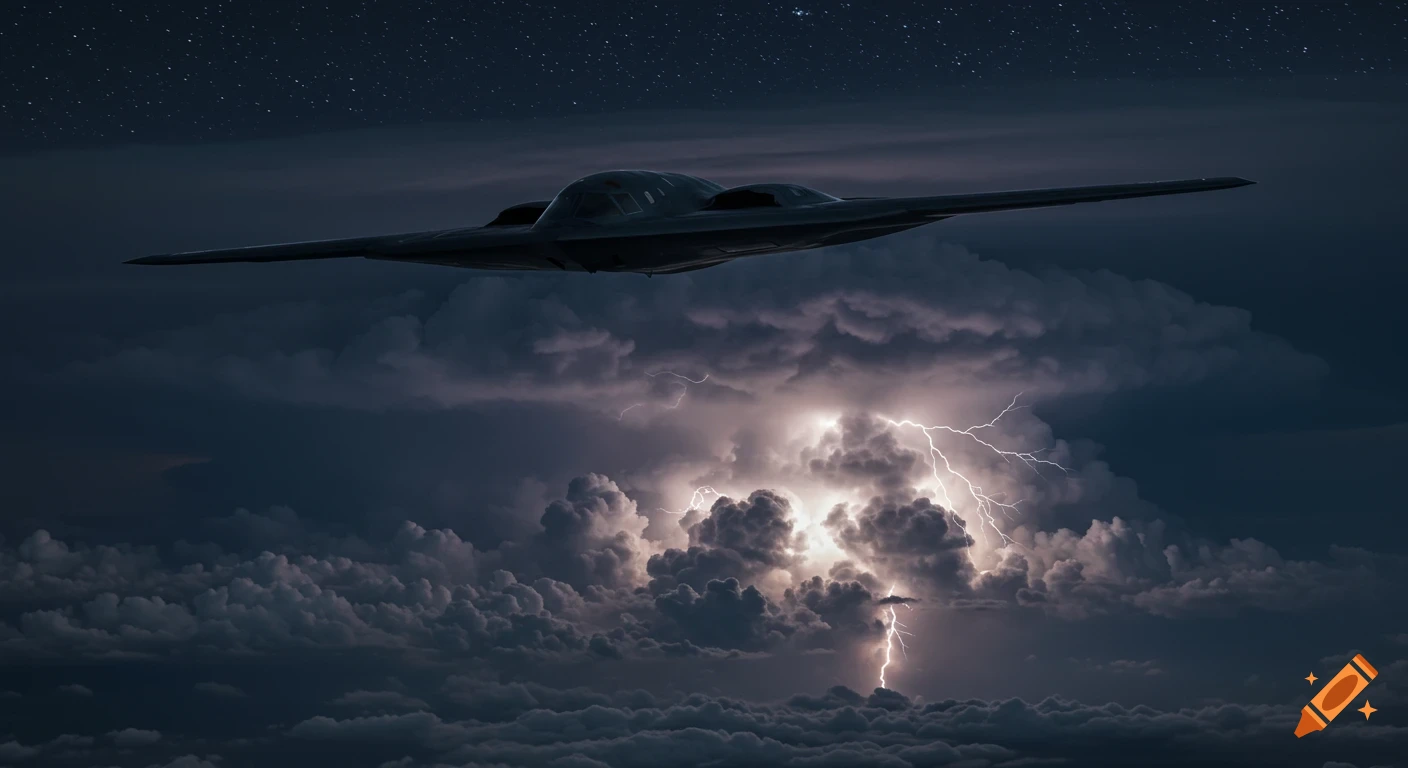
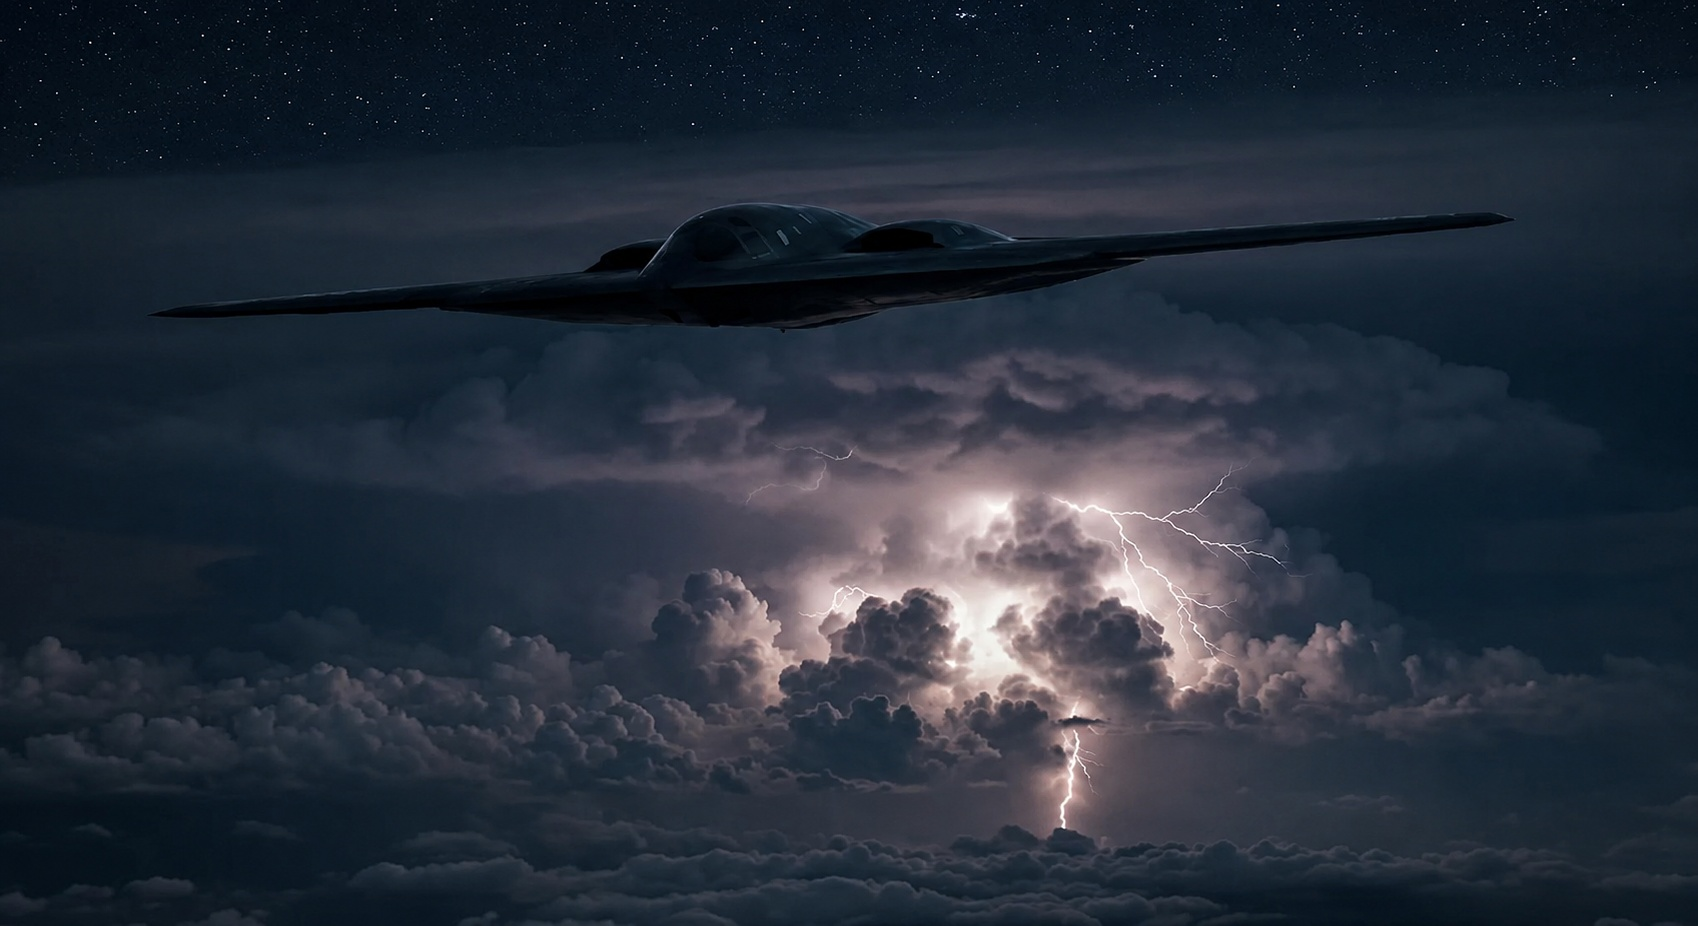
Add: update footer with links to contributors' GitHub profiles

diff --git a/index.html b/index.html
@@ -33,5 +33,23 @@
     <div class="hero-overlay"></div>
   </section>
 
+<footer>
+  <span>© 2026 Fantôme du Ciel — Tous droits réservés</span>
+  <div class="footer-links">
+    <a href="https://github.com/John-Natty" target="_blank">
+      <svg width="16" height="16" viewBox="0 0 24 24" fill="currentColor">
+        <path d="M12 0C5.37 0 0 5.37 0 12c0 5.31 3.435 9.795 8.205 11.385.6.105.825-.255.825-.57 0-.285-.015-1.23-.015-2.235-3.015.555-3.795-.735-4.035-1.41-.135-.345-.72-1.41-1.23-1.695-.42-.225-1.02-.78-.015-.795.945-.015 1.62.87 1.845 1.23 1.08 1.815 2.805 1.305 3.495.99.105-.78.42-1.305.765-1.605-2.67-.3-5.46-1.335-5.46-5.925 0-1.305.465-2.385 1.23-3.225-.12-.3-.54-1.53.12-3.18 0 0 1.005-.315 3.3 1.23.96-.27 1.98-.405 3-.405s2.04.135 3 .405c2.295-1.56 3.3-1.23 3.3-1.23.66 1.65.24 2.88.12 3.18.765.84 1.23 1.905 1.23 3.225 0 4.605-2.805 5.625-5.475 5.925.435.375.81 1.095.81 2.22 0 1.605-.015 2.895-.015 3.3 0 .315.225.69.825.57A12.02 12.02 0 0 0 24 12c0-6.63-5.37-12-12-12z"/>
+      </svg>
+      Jonathan
+    </a>
+    <a href="https://github.com/Souf-F" target="_blank">
+      <svg width="16" height="16" viewBox="0 0 24 24" fill="currentColor">
+        <path d="M12 0C5.37 0 0 5.37 0 12c0 5.31 3.435 9.795 8.205 11.385.6.105.825-.255.825-.57 0-.285-.015-1.23-.015-2.235-3.015.555-3.795-.735-4.035-1.41-.135-.345-.72-1.41-1.23-1.695-.42-.225-1.02-.78-.015-.795.945-.015 1.62.87 1.845 1.23 1.08 1.815 2.805 1.305 3.495.99.105-.78.42-1.305.765-1.605-2.67-.3-5.46-1.335-5.46-5.925 0-1.305.465-2.385 1.23-3.225-.12-.3-.54-1.53.12-3.18 0 0 1.005-.315 3.3 1.23.96-.27 1.98-.405 3-.405s2.04.135 3 .405c2.295-1.56 3.3-1.23 3.3-1.23.66 1.65.24 2.88.12 3.18.765.84 1.23 1.905 1.23 3.225 0 4.605-2.805 5.625-5.475 5.925.435.375.81 1.095.81 2.22 0 1.605-.015 2.895-.015 3.3 0 .315.225.69.825.57A12.02 12.02 0 0 0 24 12c0-6.63-5.37-12-12-12z"/>
+      </svg>
+      Soufiane
+    </a>
+  </div>
+</footer>
+
 </body>
 </html>
